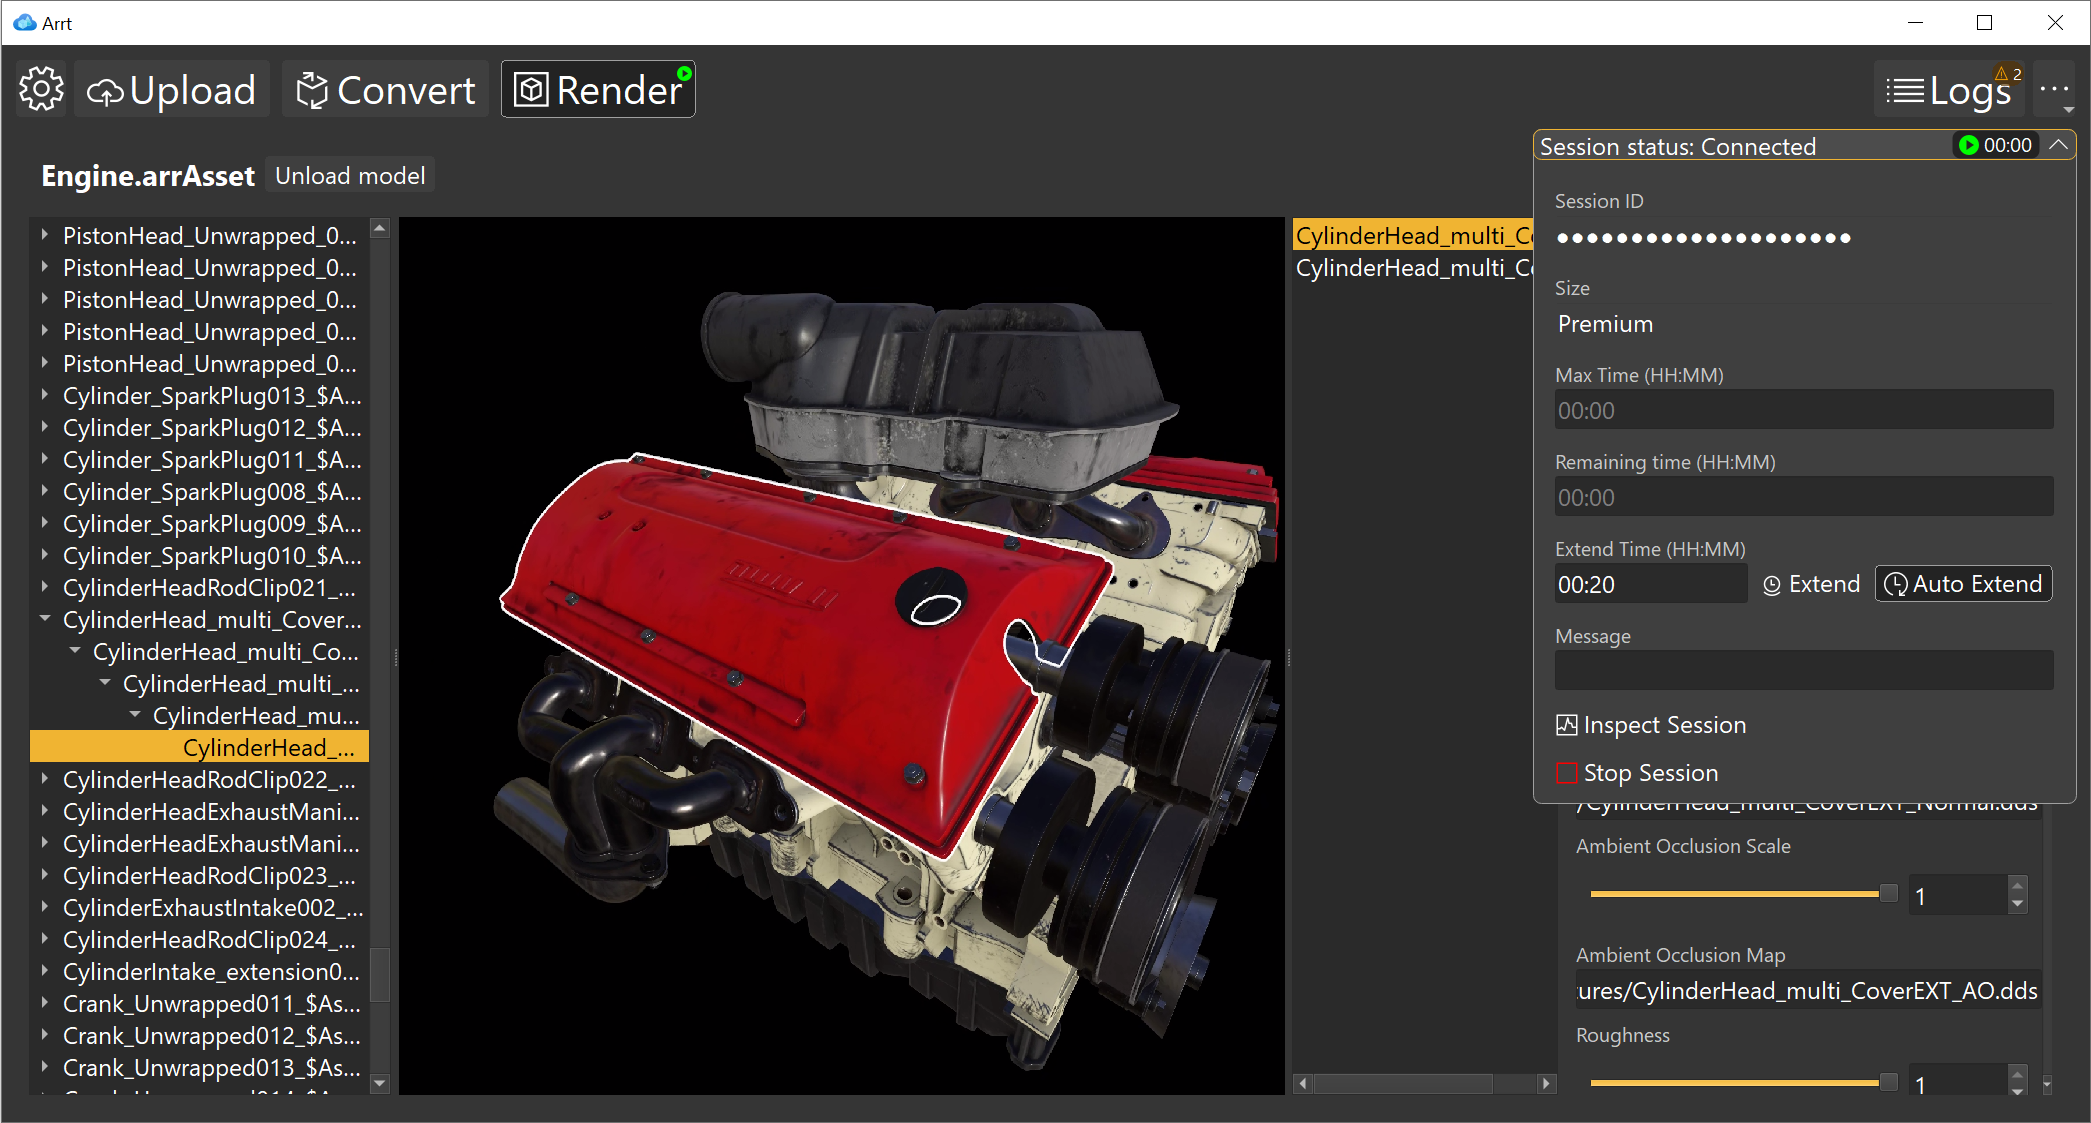
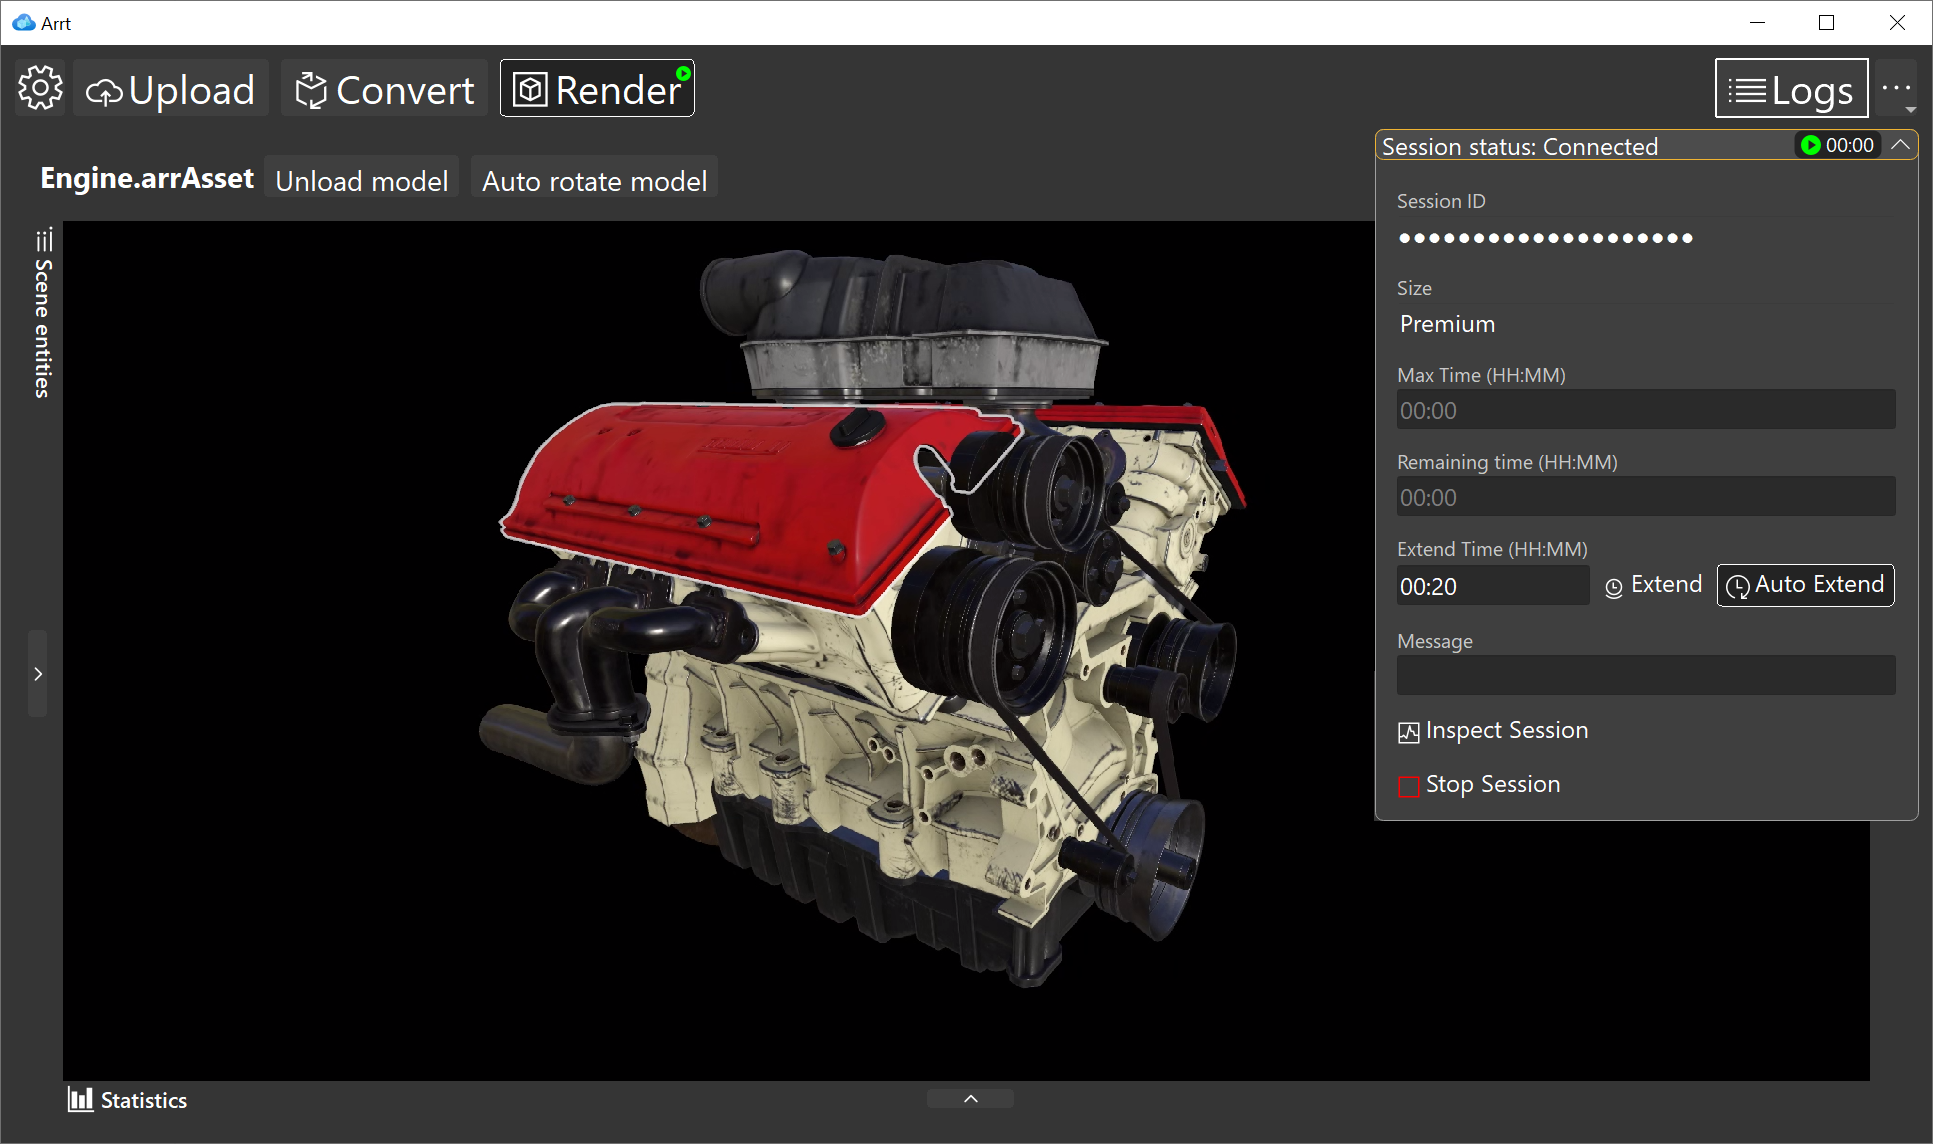
Arrt 1.3 release (#51)
* set version to 1.3
* Updated documentation for statistics panel

diff --git a/Documentation/rendering.md b/Documentation/rendering.md
@@ -59,12 +59,13 @@ To refresh the blob list, for example after a model is converted, press the "Ref
 ## 3. Visualize the model
 
 ![Rendering View](media/renderingview.png)
-If the model is loaded correctly, the model will be shown in a new view. On the top the model name is visualized, and a button allows you to unload the model.
-In the view there are four vertical panels, which can be resized vertically. From left to right:
+If the model is loaded correctly, the model will be shown in a new view. On the top you can see from left to right:
 
-### Scene tree
+* The name of the loaded model.
+* "Unload model" button to unload the model and return to the loading page.
+* "Auto-rotate" button to toggle the automatic rotation of the model.
 
-This panel shows a tree view with the hierarchy of all the entities in the loaded model. You can expand every node, and select them.
+The view has a viewport in the center, and three panels around it.
 
 ### Viewport
 
@@ -78,10 +79,29 @@ The viewport shows the rendered model, streaming it from the ARR service. The ca
 Entities can be selected by clicking on them on the viewport. When you select an entity from the viewport, the corresponding entity gets selected and highlighted in the scene tree, and the other way around.
 Double-clicking on an entity will move the camera to frame the entity in the viewport.
 
-### Material list
+### Scene tree panel
 
-This panel shows a list of the materials in the selected entities, or, if there's no selected entity, it shows the full list of materials. Materials can be selected with mouse click.
+This panel shows a tree view with the hierarchy of all the entities in the loaded model. You can expand every node, and select them.
 
-### Material properties
+### Material panel
 
-When a material is selected, this panel shows all of its editable properties. You can change properties (colors, parameters, flags) and see the results immediately reflected in the rendered model. There is no support for editing the material textures. For more information on the supported ARR materials, see [Materials](https://docs.microsoft.com/azure/remote-rendering/concepts/materials)
+This panel shows on the top a list of the materials in the selected entities, or, if there's no selected entity, the full list of materials. Materials can be selected with mouse click.
+
+When a material is selected, the lower area shows all of its editable properties. You can change properties (colors, parameters, flags) and see the results immediately reflected in the rendered model. There is no support for editing the material textures. For more information on the supported ARR materials, see [Materials](https://docs.microsoft.com/azure/remote-rendering/concepts/materials)
+
+### Statistics panel
+
+![Statistics panel](media/statspanel.png)
+
+At the bottom of the windows you have access to the statistics panel. Here you can start and stop the statistics collection and visualize the data of the current collection.
+
+Each statistic has 4 values displayed in the table:
+
+* Value. This is the summary of the values in the last second. The type of summarization depends on the source value (sum for the frame usage stats, min/max for the delta, average for all of the others)
+* Minimum/Maximum/Average. This is the minimum/maximum/average of the summarized per-second value, computed since the collection started.
+
+The statistics are organized in groups. If you click on any statistic, its group is expanded and a graph will show the live progress over time. On the X axis you can have either the raw data received each frame, or the summarized data per second. Switch between the two modes using the combobox at the top right corner.
+
+Hover with the mouse to inspect the values on the graph at a specific time.
+
+To have an automatic benchmark of the performance, you can click on "Start auto-collecting". This function runs a collection for a fixed amount of time, while rotating the model, to emulate client usage.
